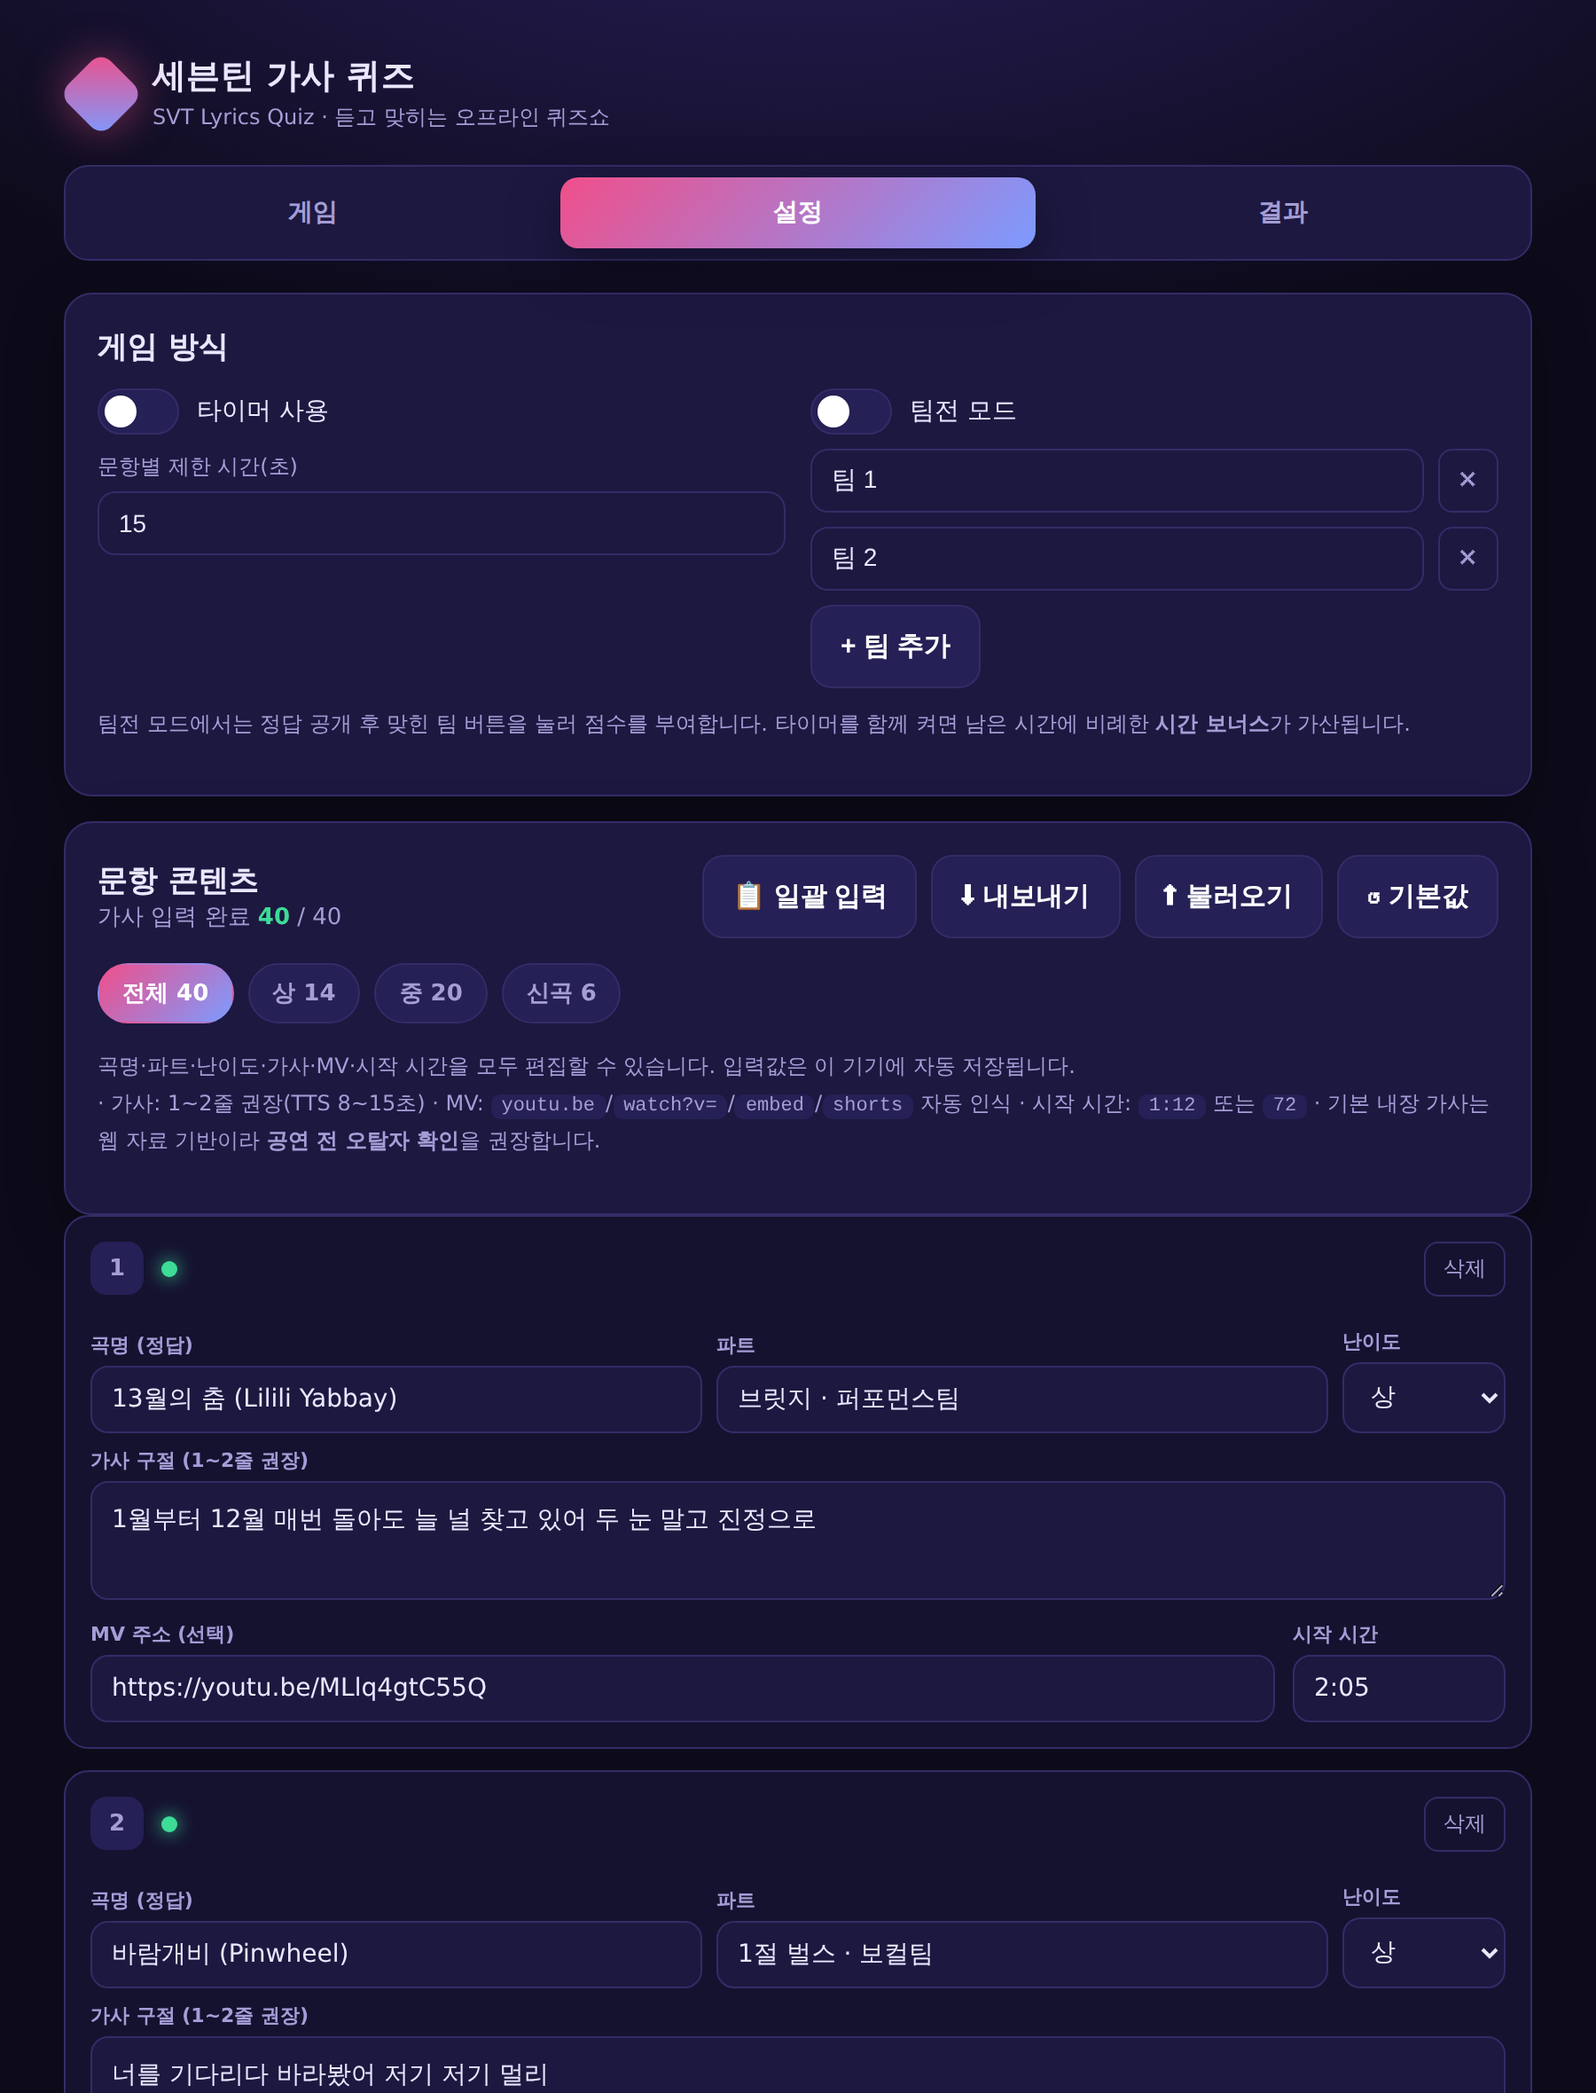
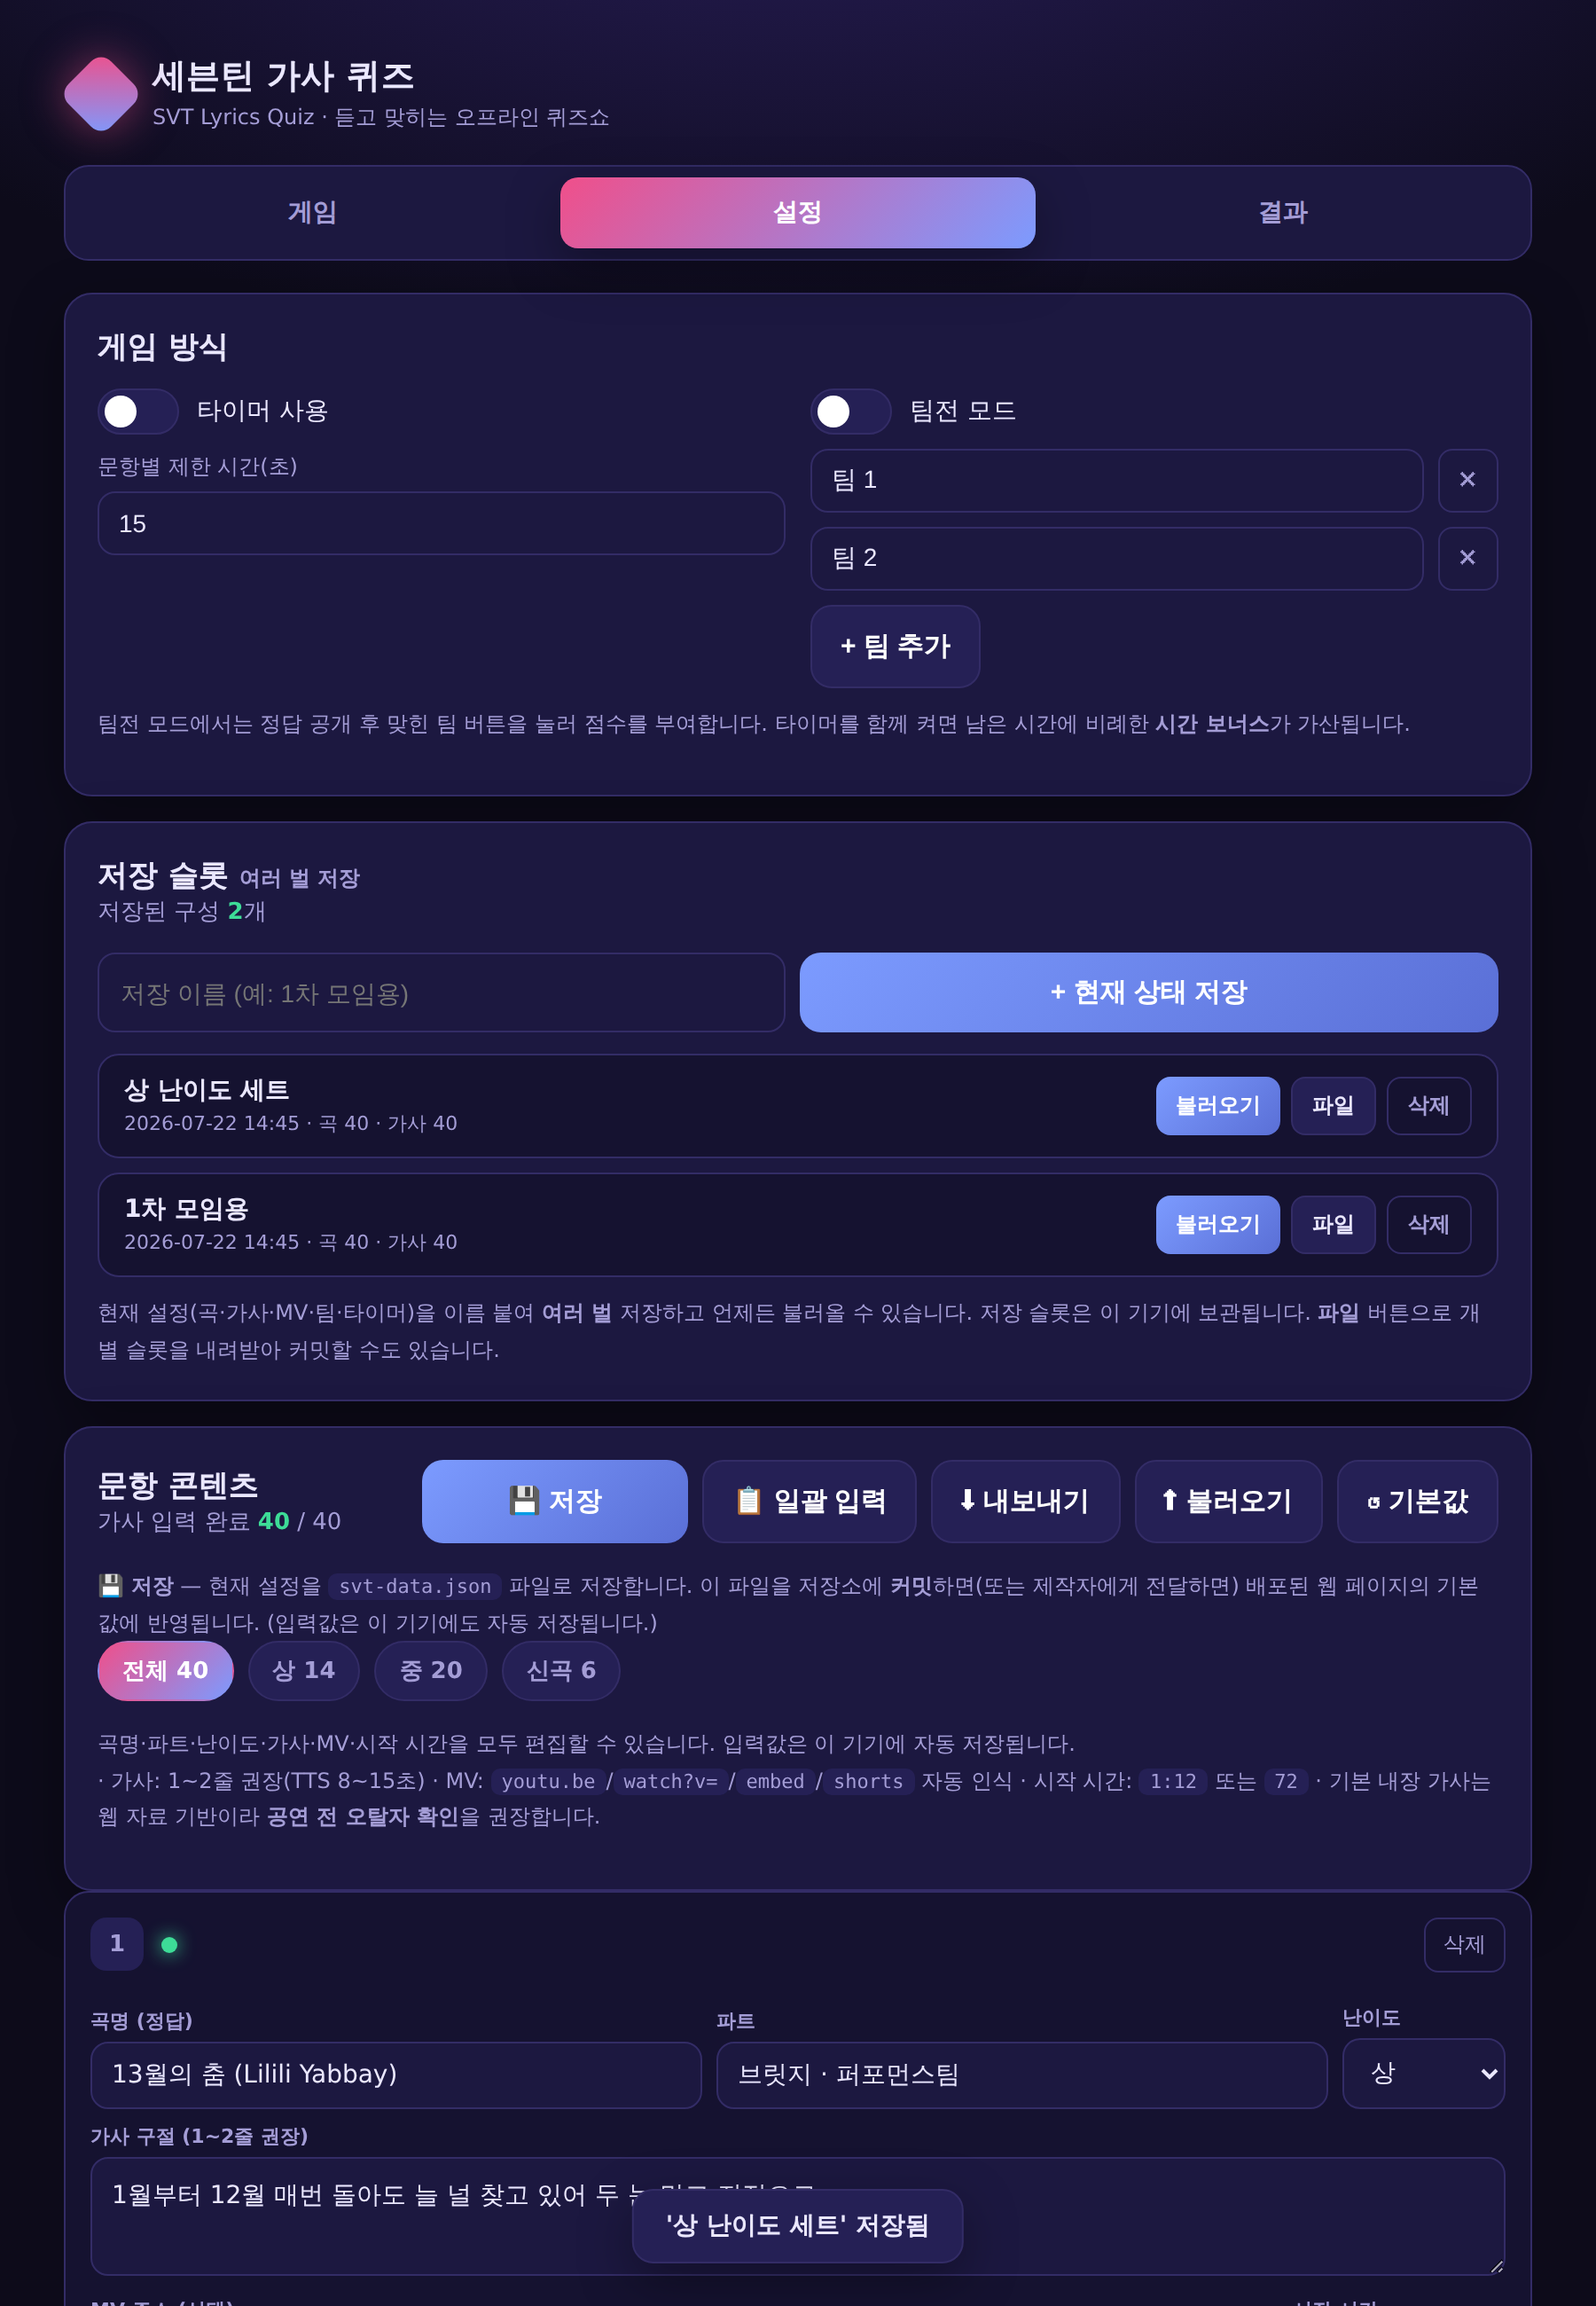
저장 슬롯(여러 벌 저장) 기능 추가
설정 탭에 '저장 슬롯' 카드 추가: 현재 구성을 이름 붙여 여러 개 저장하고
불러오기/파일 내보내기/삭제 가능(localStorage 보관). 각 슬롯에 저장 시각·곡수·가사수 표시.
README·설정 스크린샷 갱신.

Claude-Session: https://claude.ai/code/session_01BoVUxZZ7QKP6hKgrZ25vGv

diff --git a/index.html b/index.html
@@ -180,6 +180,21 @@
     .row3 .f-name,.row3 .f-part{flex:1 1 100%}
     .row3 .f-diff{width:100%}
   }
+  /* ---- 저장 슬롯 ---- */
+  .slot-save-row{display:flex;gap:8px;margin-bottom:12px}
+  .slot-save-row input{flex:1;background:var(--panel);border:1px solid var(--line);border-radius:10px;color:var(--txt);padding:10px 12px;font-size:14px}
+  .slot-save-row input:focus{outline:0;border-color:var(--rose)}
+  .slot-item{display:flex;align-items:center;gap:10px;background:var(--bg2);border:1px solid var(--line);border-radius:12px;padding:11px 14px;margin-bottom:8px}
+  .slot-item .si-main{flex:1;min-width:0}
+  .slot-item .si-name{font-weight:800;font-size:14px;overflow:hidden;text-overflow:ellipsis;white-space:nowrap}
+  .slot-item .si-time{font-size:11px;color:var(--muted);margin-top:2px}
+  .slot-item .si-btns{display:flex;gap:6px;flex:none}
+  .slot-item .si-btns button{border:0;border-radius:8px;padding:7px 11px;font-size:12px;font-weight:700;cursor:pointer}
+  .si-load{background:linear-gradient(135deg,var(--serene),#5a6fd6);color:#fff}
+  .si-file{background:var(--panel2);color:var(--txt);border:1px solid var(--line)!important}
+  .si-del{background:transparent;color:var(--muted);border:1px solid var(--line)!important}
+  .si-del:hover{color:var(--red);border-color:var(--red)!important}
+
   /* ---- 시작(랜딩) 화면 ---- */
   .intro{position:fixed;inset:0;z-index:200;display:flex;align-items:center;justify-content:center;padding:24px;
     background:radial-gradient(1000px 520px at 50% 0%, #2a1f5e 0%, var(--bg) 62%);
@@ -336,6 +351,22 @@
         </div>
       </div>
       <p class="hint">팀전 모드에서는 정답 공개 후 맞힌 팀 버튼을 눌러 점수를 부여합니다. 타이머를 함께 켜면 남은 시간에 비례한 <b>시간 보너스</b>가 가산됩니다.</p>
+    </div>
+
+    <!-- 저장 슬롯 -->
+    <div class="card">
+      <div class="set-head">
+        <div>
+          <h2>저장 슬롯 <span style="font-size:12px;color:var(--muted);font-weight:600">여러 벌 저장</span></h2>
+          <div class="fill-count">저장된 구성 <b id="slot-count">0</b>개</div>
+        </div>
+      </div>
+      <div class="slot-save-row">
+        <input id="slot-name" placeholder="저장 이름 (예: 1차 모임용)" maxlength="40" />
+        <button class="btn btn-reveal btn-sm" id="slot-save">+ 현재 상태 저장</button>
+      </div>
+      <div id="slot-list"></div>
+      <p class="hint" style="margin-bottom:0">현재 설정(곡·가사·MV·팀·타이머)을 이름 붙여 <b>여러 벌</b> 저장하고 언제든 불러올 수 있습니다. 저장 슬롯은 이 기기에 보관됩니다. <b>파일</b> 버튼으로 개별 슬롯을 내려받아 커밋할 수도 있습니다.</p>
     </div>
 
     <div class="card">
@@ -582,6 +613,68 @@ function downloadDataFile(){
   document.body.appendChild(a); a.click(); a.remove();
   setTimeout(()=>URL.revokeObjectURL(url),1000);
   toast("svt-data.json 저장됨 · 저장소에 커밋하면 배포본에 반영");
+}
+
+/* ---- 저장 슬롯 (여러 벌 저장) ---- */
+const SLOTS_KEY="svt_lyrics_quiz_slots_v1";
+function loadSlots(){ try{ return JSON.parse(localStorage.getItem(SLOTS_KEY))||[]; }catch(e){ return []; } }
+function persistSlots(s){ localStorage.setItem(SLOTS_KEY, JSON.stringify(s)); }
+function snapshotState(){ return JSON.parse(JSON.stringify({songs, content, config})); }
+function nowStamp(){ const d=new Date(), p=n=>(""+n).padStart(2,"0"); return `${d.getFullYear()}-${p(d.getMonth()+1)}-${p(d.getDate())} ${p(d.getHours())}:${p(d.getMinutes())}`; }
+function slotId(){ return "slot"+Date.now()+Math.floor(Math.random()*1000); }
+
+function addSlot(){
+  const inp=document.getElementById("slot-name");
+  let name=(inp.value||"").trim();
+  const slots=loadSlots();
+  if(!name) name="저장 "+(slots.length+1);
+  slots.unshift({id:slotId(), name, savedAt:nowStamp(), data:snapshotState()});
+  persistSlots(slots); inp.value=""; renderSlots(); toast(`'${name}' 저장됨`);
+}
+function loadSlot(id){
+  const s=loadSlots().find(x=>x.id===id); if(!s) return;
+  if(!confirm(`'${s.name}' 구성을 불러올까요? 현재 편집 내용은 대체됩니다.`)) return;
+  songs=JSON.parse(JSON.stringify(s.data.songs));
+  content=JSON.parse(JSON.stringify(s.data.content));
+  config=Object.assign({}, DEFAULT_CONFIG, s.data.config||{});
+  saveState(); renderSettings(); startNewGame(); toast(`'${s.name}' 불러옴`);
+}
+function delSlot(id){
+  const s=loadSlots().find(x=>x.id===id); if(!s) return;
+  if(!confirm(`'${s.name}' 저장을 삭제할까요?`)) return;
+  persistSlots(loadSlots().filter(x=>x.id!==id)); renderSlots();
+}
+function fileSlot(id){
+  const s=loadSlots().find(x=>x.id===id); if(!s) return;
+  const blob=new Blob([JSON.stringify(s.data,null,2)],{type:"application/json"});
+  const url=URL.createObjectURL(blob);
+  const a=document.createElement("a");
+  a.href=url; a.download=(s.name.replace(/[^\w가-힣\- ]/g,"").trim()||"svt-data")+".json";
+  document.body.appendChild(a); a.click(); a.remove();
+  setTimeout(()=>URL.revokeObjectURL(url),1000); toast("파일로 저장됨");
+}
+function renderSlots(){
+  const slots=loadSlots();
+  const cnt=document.getElementById("slot-count"); if(cnt) cnt.textContent=slots.length;
+  const list=document.getElementById("slot-list"); if(!list) return;
+  if(!slots.length){ list.innerHTML='<p class="hint" style="margin:4px 0 12px">아직 저장된 구성이 없습니다. 이름을 입력하고 <b>현재 상태 저장</b>을 눌러 보세요.</p>'; return; }
+  list.innerHTML="";
+  slots.forEach(s=>{
+    const n=(s.data.songs||[]).length;
+    const f=Object.values(s.data.content||{}).filter(c=>c&&c.lyrics&&c.lyrics.trim()).length;
+    const el=document.createElement("div"); el.className="slot-item";
+    el.innerHTML=`<div class="si-main"><div class="si-name">${escapeHtml(s.name)}</div>
+      <div class="si-time">${escapeHtml(s.savedAt||"")} · 곡 ${n} · 가사 ${f}</div></div>
+      <div class="si-btns">
+        <button class="si-load" data-load="${s.id}">불러오기</button>
+        <button class="si-file" data-file="${s.id}">파일</button>
+        <button class="si-del" data-del="${s.id}">삭제</button>
+      </div>`;
+    list.appendChild(el);
+  });
+  list.querySelectorAll("[data-load]").forEach(b=>b.addEventListener("click",()=>loadSlot(b.dataset.load)));
+  list.querySelectorAll("[data-file]").forEach(b=>b.addEventListener("click",()=>fileSlot(b.dataset.file)));
+  list.querySelectorAll("[data-del]").forEach(b=>b.addEventListener("click",()=>delSlot(b.dataset.del)));
 }
 function saveState(){
   localStorage.setItem(STORE_KEY, JSON.stringify({songs, content, config}));
@@ -902,7 +995,7 @@ function renderSettings(){
       </div>`;
     list.appendChild(slot);
   });
-  bindSlotInputs(); updateFilled();
+  bindSlotInputs(); updateFilled(); renderSlots();
 }
 function bindSlotInputs(){
   document.querySelectorAll("#s-list [data-f]").forEach(inp=>{
@@ -1071,6 +1164,8 @@ document.getElementById("r-restart").addEventListener("click",()=>{
 })();
 
 document.getElementById("s-savefile").addEventListener("click",downloadDataFile);
+document.getElementById("slot-save").addEventListener("click",addSlot);
+document.getElementById("slot-name").addEventListener("keydown",e=>{ if(e.key==="Enter"){ e.preventDefault(); addSlot(); } });
 
 els.speedval.textContent="1.0×";
 (async ()=>{

diff --git a/README.md b/README.md
@@ -133,6 +133,8 @@ https://alfira0526.github.io/SVT_Lyrics/
 - **가사** — 문항당 1~2줄 권장 (TTS 낭독 8~15초가 적정)
 - **MV 주소** — `youtu.be` / `watch?v=` / `/embed/` / `/shorts/` 형식 자동 인식
 - **시작 시간** — `1:12` 또는 초 단위 정수(`72`). 해당 가사보다 **3~5초 앞**을 권장
+- **🗂 저장 슬롯 (여러 벌 저장)** — 현재 구성을 **이름 붙여 여러 개 저장**하고 언제든 불러올 수 있습니다.
+  (예: "1차 모임용", "상 난이도 세트") 각 슬롯은 이 기기에 보관되며, **파일** 버튼으로 개별 내려받기도 가능합니다.
 - **💾 저장 (커밋 반영용)** — 현재 설정을 `svt-data.json` 파일로 저장합니다. 이 파일을 저장소에 **커밋**하면
   배포된 웹 페이지의 **기본값**에 반영됩니다. (자세한 흐름은 아래 참고)
 - **일괄 입력** — `1. 가사` 형식 텍스트를 붙여넣어 슬롯에 자동 배분
